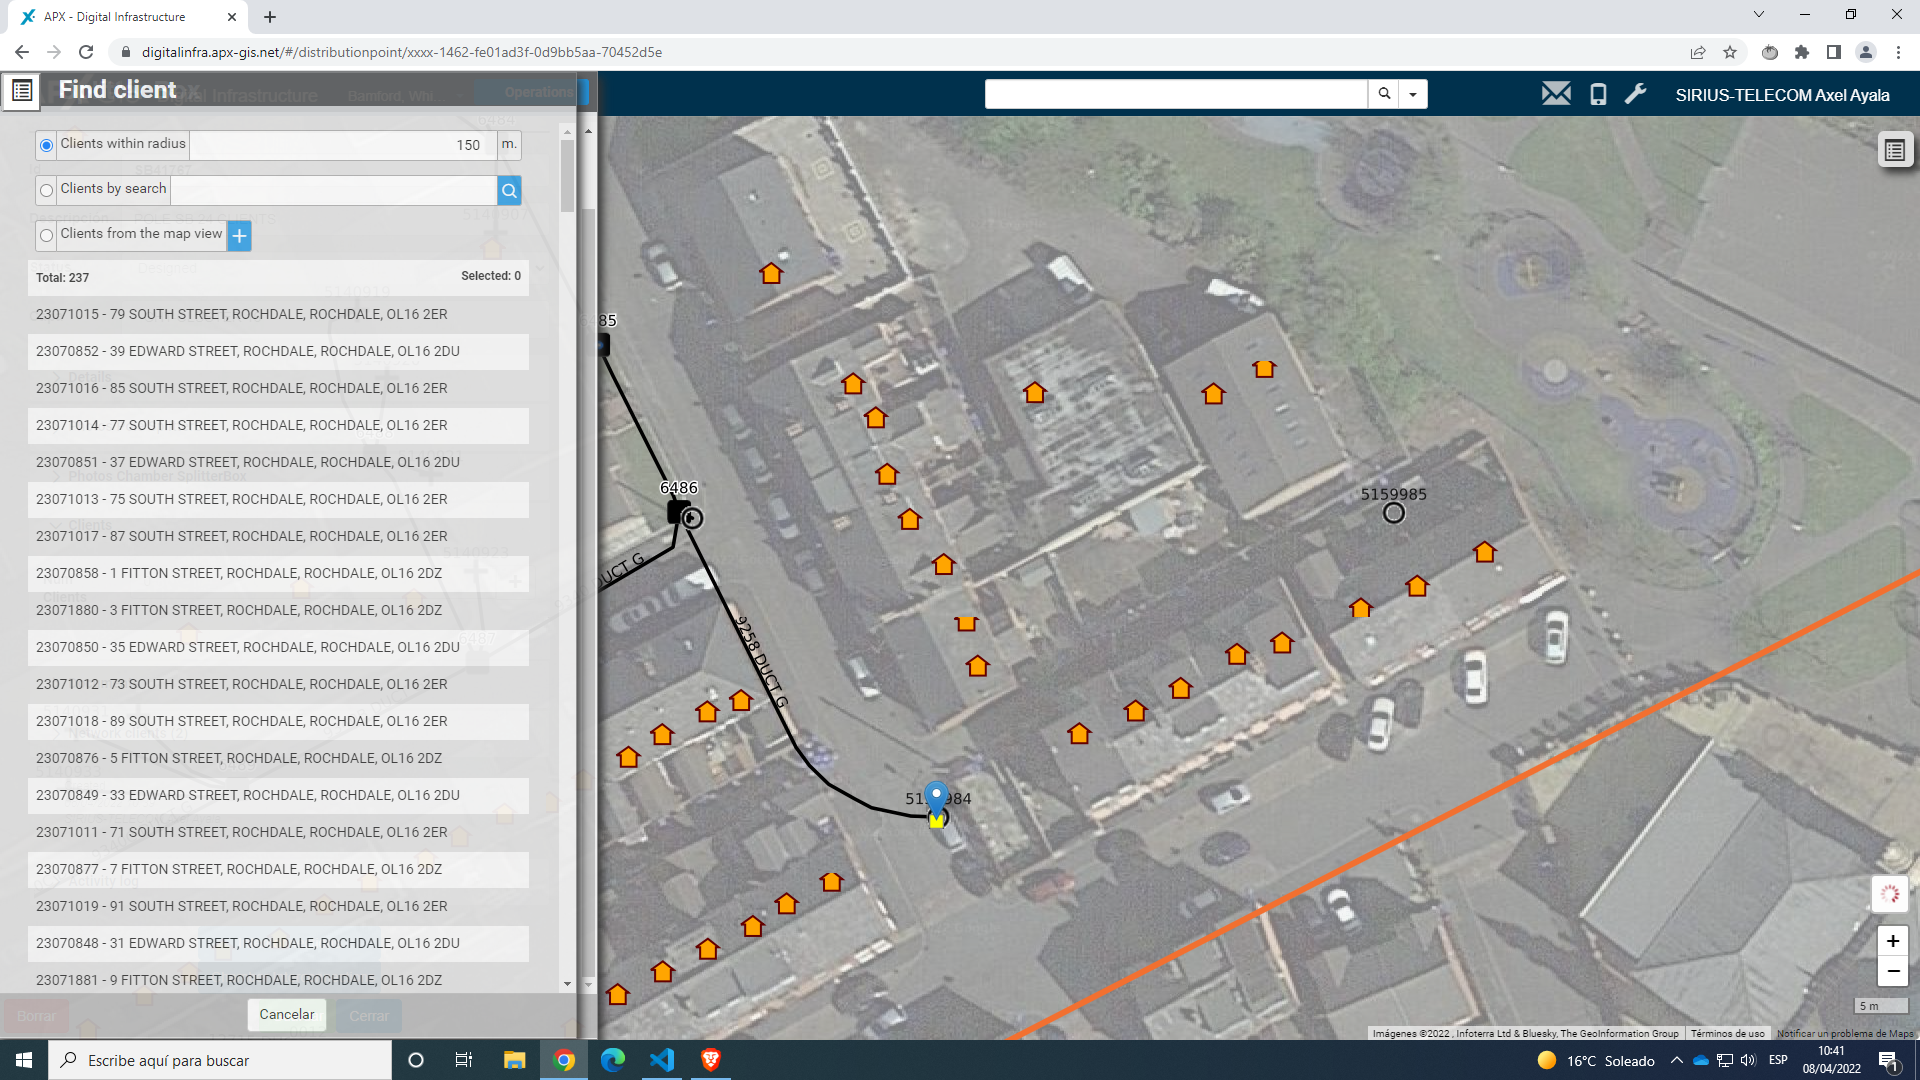
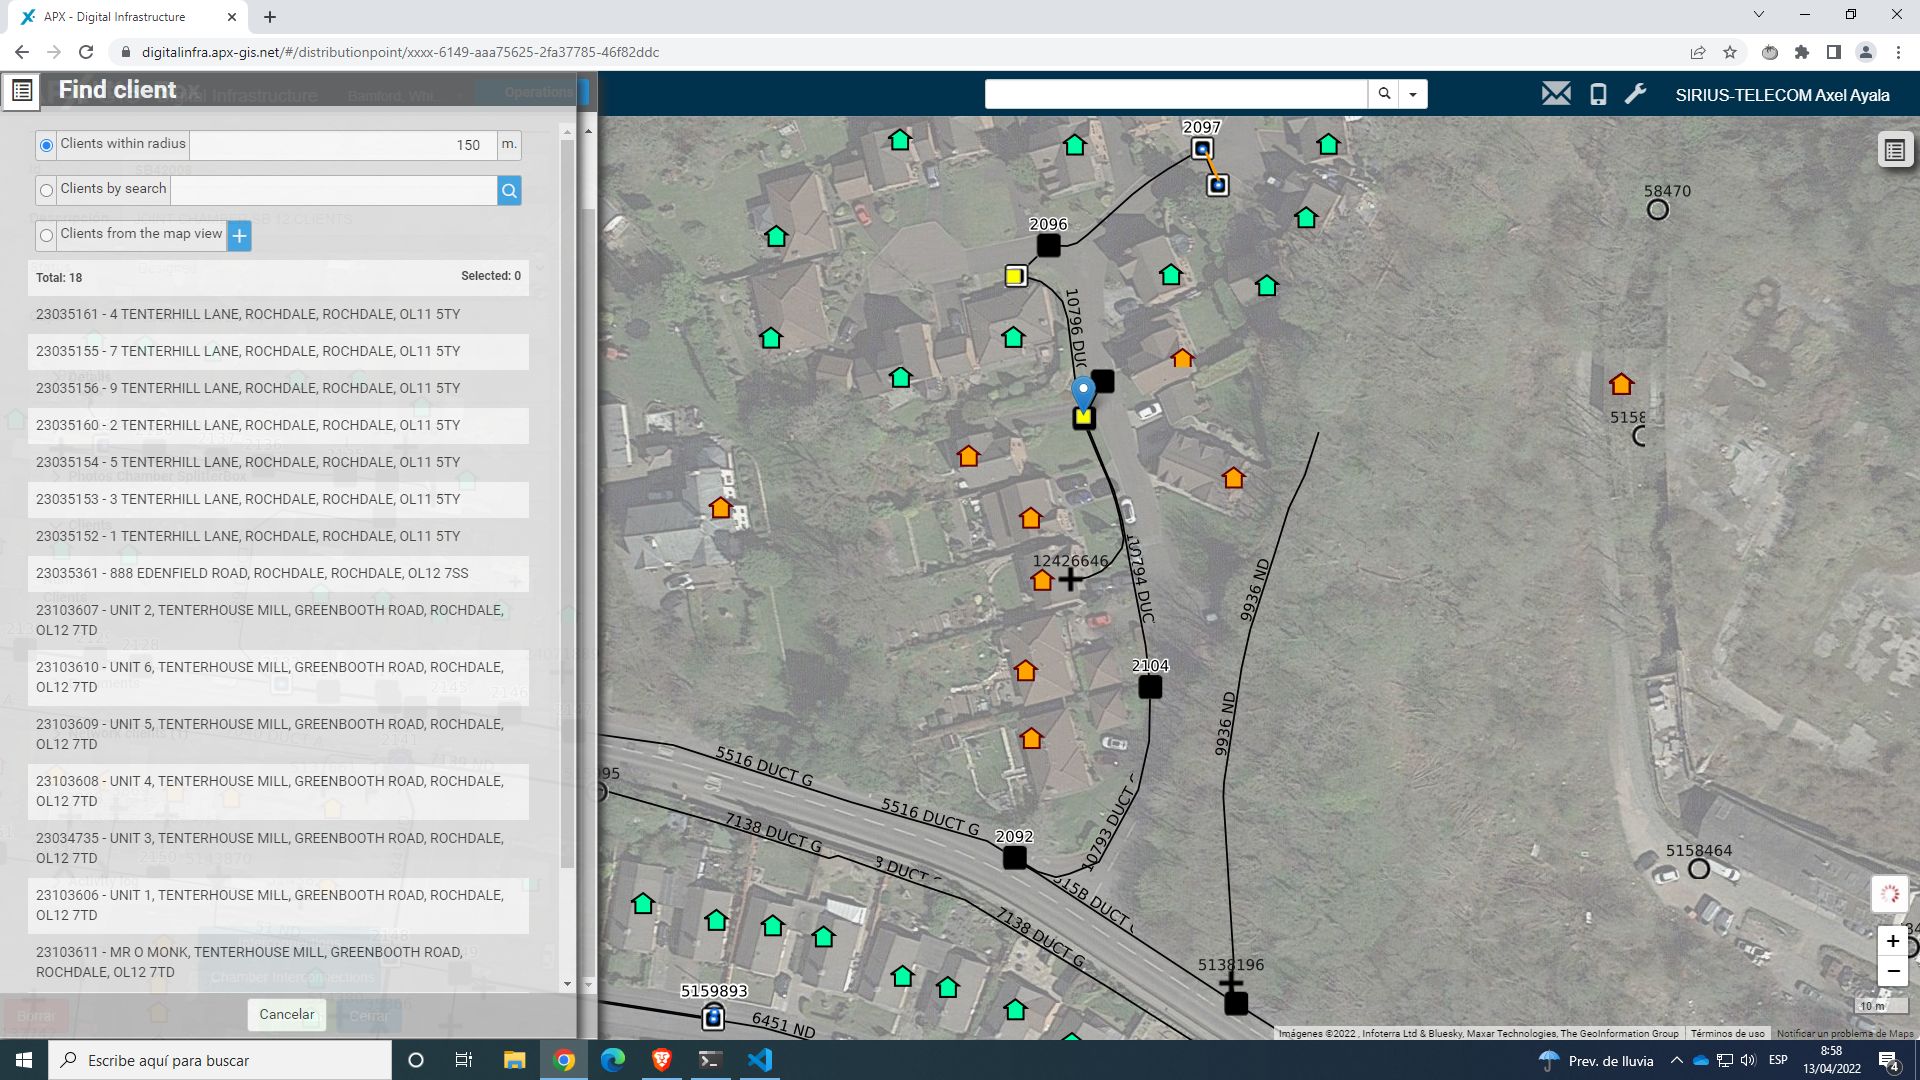
added changes for driver stability

diff --git a/digital_infrastructure/cable_manager.py b/digital_infrastructure/cable_manager.py
@@ -1,4 +1,5 @@
 from operator import not_
+from remote_connection import RemoteConnection
 from pydoc import Helper
 from cv2 import exp
 import pyautogui
@@ -39,86 +40,85 @@ class CableManager:
 
     def automate_cable_form(self, cable_template): 
 
-        helper.setup_operations_panel(self.driver)
+        try: 
 
-        #create cable button
-        create_cable_wait = WebDriverWait(self.driver, 10).until(EC.visibility_of_element_located((By.CSS_SELECTOR, "a[href='#newCable']")))
-        crate_cable = self.driver.find_element(by=By.CSS_SELECTOR, value="a[href='#newCable']").click()
+            self.driver.get('https://digitalinfra.apx-gis.net/#/newCable')
 
+            form_wait = WebDriverWait(self.driver, 600).until(EC.visibility_of_element_located((By.XPATH, ORIGIN_ID_XPATH )))
 
+            select_origin = Select(self.driver.find_element(by=By.XPATH, value=ORIGIN_ID_XPATH))
+            select_dest = Select(self.driver.find_element(by=By.XPATH, value = DEST_ID_XPATH))
 
-        form_wait = WebDriverWait(self.driver, 600).until(EC.visibility_of_element_located((By.XPATH, ORIGIN_ID_XPATH )))
-
-        select_origin = Select(self.driver.find_element(by=By.XPATH, value=ORIGIN_ID_XPATH))
-        select_dest = Select(self.driver.find_element(by=By.XPATH, value = DEST_ID_XPATH))
-
-        origin = ''
-        destination = ''
+            origin = ''
+            destination = ''
 
 
-        for i in range(1,len(select_origin.options)): 
-            selection = select_origin.options[i].text.split(':')
-            if len(selection) == 1: 
-                select_origin.select_by_index(i)
-                origin = select_origin.options[i].text.split(' ')[0] 
-                break
+            for i in range(1,len(select_origin.options)): 
+                selection = select_origin.options[i].text.split(':')
+                if len(selection) == 1: 
+                    select_origin.select_by_index(i)
+                    origin = select_origin.options[i].text.split(' ')[0] 
+                    break
 
-        for i in range(1,len(select_dest.options)): 
-            selection = select_dest.options[i].text.split(':')
-            if len(selection) == 1: 
-                select_dest.select_by_index(i)
-                destination = select_dest.options[i].text.split(' ')[0] 
-                break
+            for i in range(1,len(select_dest.options)): 
+                selection = select_dest.options[i].text.split(':')
+                if len(selection) == 1: 
+                    select_dest.select_by_index(i)
+                    destination = select_dest.options[i].text.split(' ')[0] 
+                    break
 
-        #input cable id
-        id_container = self.driver.find_element(by=By.XPATH, value='//*[@id="frmcable"]/form/article/div[2]/apx-field1[1]/div/div/input')
-        id = self.get_cable_id(origin=origin, destination=destination)
-        id_container.clear()
-        id_container.send_keys(id)
+            #input cable id
+            id_container = self.driver.find_element(by=By.XPATH, value='//*[@id="frmcable"]/form/article/div[2]/apx-field1[1]/div/div/input')
+            id = self.get_cable_id(origin=origin, destination=destination)
+            id_container.clear()
+            id_container.send_keys(id)
 
-        #select the template according to cable size
-        template = Select(self.driver.find_element(by=By.XPATH, value='//*[@id="frmcable"]/form/article/div[2]/apx-field1[4]/div/div/select'))
-        template.select_by_value(cable_template) 
+            #select the template according to cable size
+            template = Select(self.driver.find_element(by=By.XPATH, value='//*[@id="frmcable"]/form/article/div[2]/apx-field1[4]/div/div/select'))
+            template.select_by_value(cable_template) 
 
 
-        #select layer
-        layer_wait = WebDriverWait(self.driver, 10).until(EC.element_to_be_clickable((By.XPATH, '//*[@id="frmcable"]/form/article/div[2]/apx-field1[5]/div/div/app-find-layer/button')))
-        layer = self.driver.find_element_by_xpath('//*[@id="frmcable"]/form/article/div[2]/apx-field1[5]/div/div/app-find-layer/button').click() 
-        overlay_panel_wait = WebDriverWait(self.driver, 10).until(EC.visibility_of_element_located((By.CLASS_NAME, 'ui-overlaypanel')))
-        #upr_option_wait = WebDriverWait(self.driver, 10).until(EC.visibility_of_element_located((By.XPATH, '//*[@id="frmcable"]/form/article/div[2]/apx-field1[5]/div/div/app-find-layer/p-overlaypanel/div/div/p-tree/div/div/ul/p-treenode[4]/li/div/div/div/span')))
-        helper.scrape_layers(self.driver,self.workign_town, self.working_cluster)
+            #select layer
+            layer_wait = WebDriverWait(self.driver, 10).until(EC.element_to_be_clickable((By.XPATH, '//*[@id="frmcable"]/form/article/div[2]/apx-field1[5]/div/div/app-find-layer/button')))
+            layer = self.driver.find_element_by_xpath('//*[@id="frmcable"]/form/article/div[2]/apx-field1[5]/div/div/app-find-layer/button').click() 
+            overlay_panel_wait = WebDriverWait(self.driver, 10).until(EC.visibility_of_element_located((By.CLASS_NAME, 'ui-overlaypanel')))
+            #upr_option_wait = WebDriverWait(self.driver, 10).until(EC.visibility_of_element_located((By.XPATH, '//*[@id="frmcable"]/form/article/div[2]/apx-field1[5]/div/div/app-find-layer/p-overlaypanel/div/div/p-tree/div/div/ul/p-treenode[4]/li/div/div/div/span')))
+            helper.scrape_layers(self.driver,self.workign_town, self.working_cluster)
 
-        save_button = self.driver.find_element_by_xpath('//*[@id="frmcable"]/form/footer/button[1]').click()
+            save_button = self.driver.find_element_by_xpath('//*[@id="frmcable"]/form/footer/button[1]').click()
 
-        #cable details
-        not_clickable = True
-        while not_clickable: 
-            try: 
-                details_wait = WebDriverWait(self.driver, 30).until(EC.element_to_be_clickable((By.CSS_SELECTOR,"p-accordiontab[header='Cable Details'] span")))
-                details = self.driver.find_element(by=By.CSS_SELECTOR, value="p-accordiontab[header='Cable Details'] span").click()
-                not_clickable = False
-            except: 
-                pass
+            #cable details
+            not_clickable = True
+            while not_clickable: 
+                try: 
+                    details_wait = WebDriverWait(self.driver, 30).until(EC.element_to_be_clickable((By.CSS_SELECTOR,"p-accordiontab[header='Cable Details'] span")))
+                    details = self.driver.find_element(by=By.CSS_SELECTOR, value="p-accordiontab[header='Cable Details'] span").click()
+                    not_clickable = False
+                except: 
+                    pass
 
-        
-        size_wait = WebDriverWait(self.driver, 30).until(EC.visibility_of_element_located((By.CSS_SELECTOR,"apx-field1[label='Size'] input")))
-        size = self.driver.find_element(by= By.CSS_SELECTOR, value= "apx-field1[label='Size'] input")
+                
+            size_wait = WebDriverWait(self.driver, 30).until(EC.visibility_of_element_located((By.CSS_SELECTOR,"apx-field1[label='Size'] input")))
+            size = self.driver.find_element(by= By.CSS_SELECTOR, value= "apx-field1[label='Size'] input")
 
-        cable_size = size.get_attribute('value')
-        print(cable_size)
-        tubes = int(int(cable_size)/ 10)
-        print(tubes)
+            cable_size = size.get_attribute('value')
+            print(cable_size)
+            tubes = int(int(cable_size)/ 10)
+            print(tubes)
 
-        tubes_input = self.driver.find_element(by=By.CSS_SELECTOR, value="apx-field1[label='Tubes'] input")
-        tubes_input.send_keys(tubes) 
-        
-        if cable_template == CableCodes.CABLE_48_FO_ULW or cable_template == CableCodes.CABLE_12_FO_ULW: 
-            comments = self.driver.find_element(by=By.CSS_SELECTOR, value="apx-field1[label='Comentarios'] textarea")
-            comments.send_keys('AERIAL')
+            tubes_input = self.driver.find_element(by=By.CSS_SELECTOR, value="apx-field1[label='Tubes'] input")
+            tubes_input.send_keys(tubes) 
 
-        save_button = self.driver.find_element_by_xpath('//*[@id="frmcable"]/form/footer/button[1]').click()
+            if cable_template == CableCodes.CABLE_48_FO_ULW or cable_template == CableCodes.CABLE_12_FO_ULW: 
+                comments = self.driver.find_element(by=By.CSS_SELECTOR, value="apx-field1[label='Comentarios'] textarea")
+                comments.send_keys('AERIAL')
 
-        
+            save_button = self.driver.find_element_by_xpath('//*[@id="frmcable"]/form/footer/button[1]').click()
+
+        except: 
+            self.driver = RemoteConnection.setup_connection()
+            print('Eror creating cable')
+
 
 
     

diff --git a/digital_infrastructure/component_creator.py b/digital_infrastructure/component_creator.py
@@ -9,6 +9,7 @@ from handle_input import handle_uprn_response
 
 
 from helpers import Helpers
+from remote_connection import RemoteConnection
 
 helper = Helpers()
 
@@ -31,6 +32,7 @@ class ComponentCreator:
 
             # place component on the right position
             WebDriverWait(self.driver, 100).until(EC.presence_of_element_located((By.ID, 'frmConfirmAction')))
+            time.sleep(0.5)
             pyautogui.doubleClick(mouse_position)
 
             # select the correct template
@@ -92,6 +94,7 @@ class ComponentCreator:
             save_button = self.driver.find_element_by_xpath(
                 '//*[@id="frmsplicebox"]/form/footer/button[1]').click()
         except:
+            self.driver = RemoteConnection.setup_connection()
             print("Something went wrogn creating joint box, restart :(")
 
     def create_pole_sb(self, pole_sb_template):
@@ -105,6 +108,7 @@ class ComponentCreator:
 
             # place the sb on the right position
             WebDriverWait(self.driver, 100).until(EC.presence_of_element_located((By.ID, 'frmConfirmAction')))
+            time.sleep(0.5)
             pyautogui.doubleClick(mouse_position)
 
             # select the correct template
@@ -190,6 +194,7 @@ class ComponentCreator:
                     uprn_selection = False
 
         except: 
+            self.driver = RemoteConnection.setup_connection()
             print('Something went wrong creating pole sb :(')
 
     def create_joint_chamber_sb(self, sb_template):
@@ -201,6 +206,7 @@ class ComponentCreator:
 
             # place the sb on the right position
             WebDriverWait(self.driver, 100).until(EC.presence_of_element_located((By.ID, 'frmConfirmAction')))
+            time.sleep(0.5)
             pyautogui.doubleClick(mouse_position)
 
             # select the correct template
@@ -280,14 +286,16 @@ class ComponentCreator:
             # uprn selection loop
             uprn_selection = True
             while uprn_selection:
-
-                select_clients = input('Seleccionar clientes?')
-                if select_clients == 'y':
+                
+                select_clients = handle_uprn_response()
+                if select_clients: 
                     uprn_list = helper.scrape_uprns_from_map(self.driver)
                     helper.scrape_uprn_from_cto_list(
                         self.driver, uprn_list=uprn_list)
 
-                elif select_clients == 'n':
+                else:
                     uprn_selection = False
+
         except: 
+            self.driver = RemoteConnection.setup_connection()
             print('Something went wrong creating joint box sb')

diff --git a/digital_infrastructure/main.py b/digital_infrastructure/main.py
@@ -4,10 +4,10 @@ from component_creator import ComponentCreator
 from handle_input import handle_input
 from remote_connection import RemoteConnection
 
-WORKING_TOWN = Towns.CARLTON
-WORKING_CLUSTER = 16 
+WORKING_TOWN = Towns.BAMFORD
+WORKING_CLUSTER = 4  
 keep_open = False 
-WORKING_TOWN_CODE = 'CHT'
+WORKING_TOWN_CODE = 'BAM'
 
 if __name__ == '__main__': 
 

diff --git a/digital_infrastructure/constants.py b/digital_infrastructure/constants.py
@@ -8,6 +8,7 @@ class Towns:
     SKELMERSDALE = 'SKELMERSDALE'
     CARLTON = 'CARLTON-HARWORTH-TICKHILL'
     CRAWLEY = 'CRAWLEY'
+    BAMFORD = 'BAMFORD-WHITWORTH'
 
 
 class SbCodes: 
